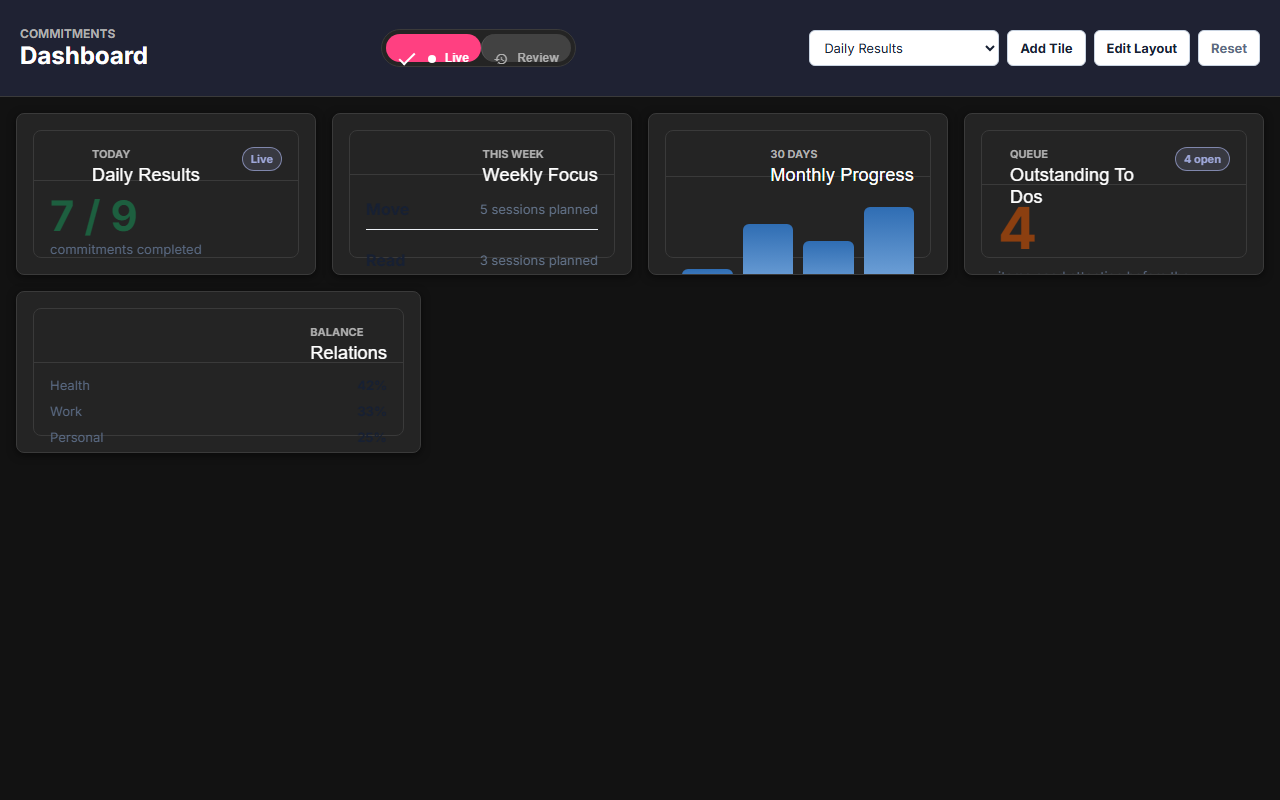
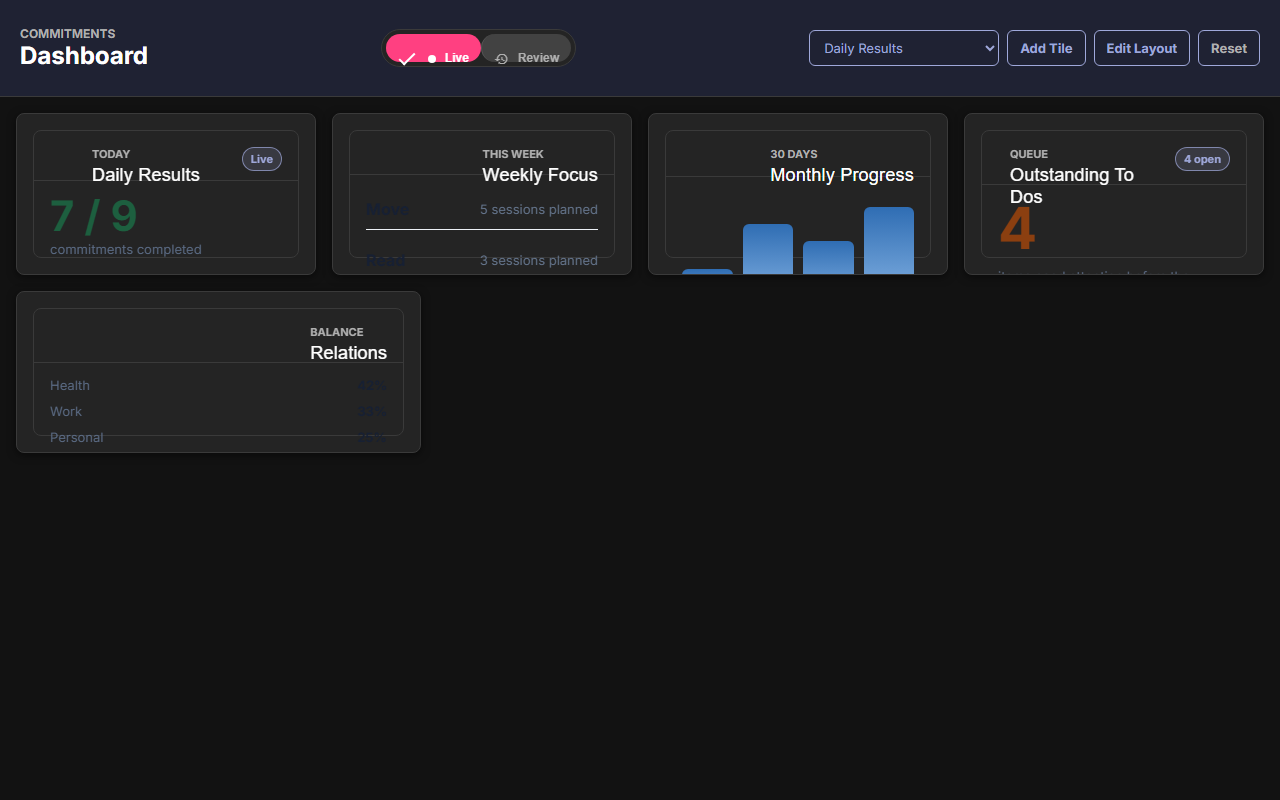
fix(dashboard-layout): repaint topbar buttons + select with the stroked-on-dark pattern
Closes bug 011. Replaces the four hard-coded slate / blue colours
on .dashboard-shell__select / __button (default + hover + active +
muted) with --cui-* tokens:

  default     border --cui-primary
              color  --cui-primary
              bg     transparent
  hover       border --cui-primary-strong
              color  --cui-text-primary
  --active    bg     --cui-primary
              color  --cui-on-primary
              border --cui-primary
  --muted     color  --cui-text-secondary

Now the four right-hand actions (tile-select, Add Tile, Edit
Layout, Reset) match docs/ui-design.pen "Btn/Stroked" (id 45CHX)
on the dark toolbar instead of being four bright white pills.

Full lg-desktop e2e suite: 13 passed, no regressions. The new
"topbar action buttons use the stroked-on-dark style" assertion
green.

Audit (radical simplicity, 2x):
  a) Six hex-to-token swaps across four existing rules - the
     same pattern bugs 009 + 010 used; nothing structural added.
  b) All four button labels readable on dark; borders subtle
     lavender; active state still flips to a filled state via
     the same token pair.
  c) Junior friendly: drop hex, use --cui-* variable - one
     direction.

Changed region(s): [[0.625, 0.0312, 1.0, 0.0938], [0.4062, 0.0625, 0.4375, 0.0938]]

diff --git a/frontend/projects/dashboard-framework/src/lib/dashboard/dashboard-shell/dashboard-shell.component.scss b/frontend/projects/dashboard-framework/src/lib/dashboard/dashboard-shell/dashboard-shell.component.scss
@@ -51,10 +51,10 @@ h1 {
 .dashboard-shell__select,
 .dashboard-shell__button {
   height: 36px;
-  border: 1px solid #c9d4e2;
+  border: 1px solid var(--cui-primary);
   border-radius: 6px;
-  background: #ffffff;
-  color: #172033;
+  background: transparent;
+  color: var(--cui-primary);
   font: inherit;
   font-size: 13px;
 }
@@ -71,18 +71,18 @@ h1 {
 }
 
 .dashboard-shell__button:hover {
-  border-color: #2f6db3;
-  color: #1f5d9f;
+  border-color: var(--cui-primary-strong);
+  color: var(--cui-text-primary);
 }
 
 .dashboard-shell__button--active {
-  border-color: #235f9f;
-  color: #ffffff;
-  background: #235f9f;
+  border-color: var(--cui-primary);
+  color: var(--cui-on-primary);
+  background: var(--cui-primary);
 }
 
 .dashboard-shell__button--muted {
-  color: #5b6b84;
+  color: var(--cui-text-secondary);
 }
 
 .dashboard-shell__main {
